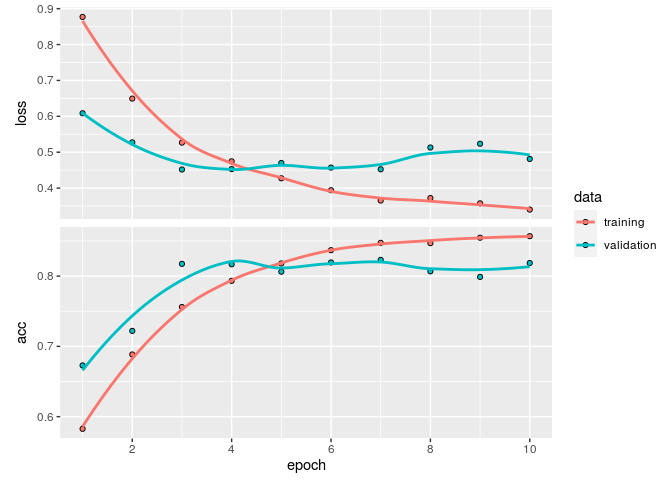
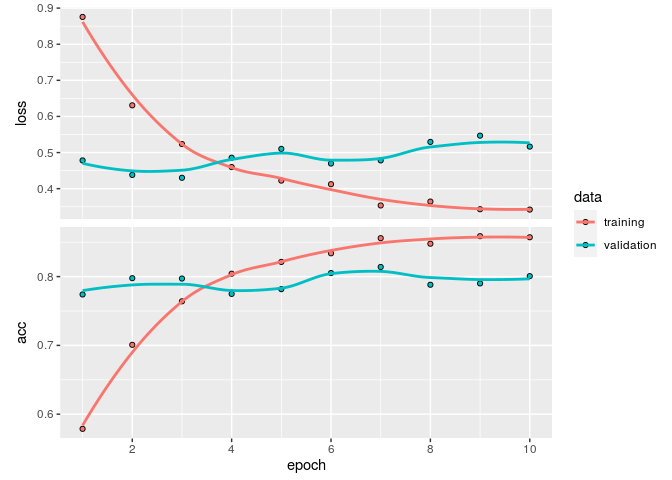
addition of cosine annealing to mimic cyclical learning rate of fast.ai

diff --git a/resnet50-lr-finder-and-cyclic-lr-with-r.md b/resnet50-lr-finder-and-cyclic-lr-with-r.md
@@ -287,8 +287,8 @@ str(batch)
 ```
 
     ## List of 2
-    ##  $ : num [1:32, 1:224, 1:224, 1:3] 66 124 75.6 192.4 135.8 ...
-    ##  $ : num [1:32, 1:4] 0 1 1 1 0 0 0 0 0 0 ...
+    ##  $ : num [1:32, 1:224, 1:224, 1:3] 76 52.8 110 135 48.1 ...
+    ##  $ : num [1:32, 1:4] 0 0 0 1 0 0 0 0 1 0 ...
 
 # Import pre-trained model
 
@@ -468,13 +468,13 @@ data <- data.frame("Learning_rate" = lr_hist, "Loss" = callback_log_acc_lr$loss)
 head(data)
 ```
 
-    ##   Learning_rate     Loss
-    ## 1  1.145048e-08 1.108392
-    ## 2  1.311134e-08 1.103797
-    ## 3  1.501311e-08 1.025971
-    ## 4  1.719072e-08 1.084623
-    ## 5  1.968419e-08 1.125008
-    ## 6  2.253934e-08 1.098663
+    ##   Learning_rate      Loss
+    ## 1  1.145048e-08 1.0334737
+    ## 2  1.311134e-08 1.2092899
+    ## 3  1.501311e-08 1.1567343
+    ## 4  1.719072e-08 0.9763259
+    ## 5  1.968419e-08 0.9965426
+    ## 6  2.253934e-08 1.0602639
 
 Learning rate vs loss
 :
@@ -581,8 +581,6 @@ Cyclic_LR <- function(iteration=1:32000, base_lr=1e-5, max_lr=1e-3, step_size=20
 }
 ```
 
-## Trying cosine annealing
-
 ``` r
 n=40
 nb_epochs=10
@@ -599,6 +597,42 @@ plot(l_rate, type="b", pch=16, xlab="iteration", cex=0.2, ylab="learning rate", 
 ```
 
 ![](resnet50-lr-finder-and-cyclic-lr-with-r_files/figure-gfm/unnamed-chunk-42-1.png)<!-- -->
+
+#### Reproducing cosine annealing
+
+``` r
+l_rate <- Cyclic_LR(iteration=1:n_iter, base_lr=1e-5, max_lr=1e-3, step_size=floor(n),
+                        mode='halfcosine', gamma=1, scale_fn=NULL, scale_mode='cycle')
+
+l_rate <- rep(l_rate[n:(n*2)], nb_epochs)
+```
+
+``` r
+plot(l_rate, type="b", pch=16, xlab="iteration", cex=0.2, ylab="learning rate", col="grey50")
+```
+
+![](resnet50-lr-finder-and-cyclic-lr-with-r_files/figure-gfm/unnamed-chunk-44-1.png)<!-- -->
+
+##### Combining the two
+
+``` r
+l_rate_cyclical <- Cyclic_LR(iteration=1:n, base_lr=1e-5, max_lr=1e-3, step_size=floor(n/2),
+                        mode='triangular', gamma=1, scale_fn=NULL, scale_mode='cycle')
+
+
+l_rate_cosine_annealing <- Cyclic_LR(iteration=1:n_iter, base_lr=1e-5, max_lr=1e-3, step_size=floor(n),
+                        mode='halfcosine', gamma=1, scale_fn=NULL, scale_mode='cycle')
+
+l_rate_cosine_annealing <- rep(l_rate_cosine_annealing[n:(n*2)])
+
+l_rate <- rep(c(l_rate_cyclical, l_rate_cosine_annealing), nb_epochs/2)
+```
+
+``` r
+plot(l_rate, type="b", pch=16, xlab="iteration", cex=0.2, ylab="learning rate", col="grey50")
+```
+
+![](resnet50-lr-finder-and-cyclic-lr-with-r_files/figure-gfm/unnamed-chunk-46-1.png)<!-- -->
 
 Clean model for training :
 
@@ -646,44 +680,6 @@ plot(history)
     ## `geom_smooth()` using formula 'y ~ x'
 
 ![](resnet50-lr-finder-and-cyclic-lr-with-r_files/figure-gfm/plot_perforance-1.png)<!-- -->
-
-## Trying cosine annealing
-
-``` r
-n=40
-nb_epochs=5
-n_iter<-n*nb_epochs
-```
-
-``` r
-l_rate <- Cyclic_LR(iteration=1:n_iter, base_lr=1e-5, max_lr=1e-3, step_size=floor(n),
-                        mode='halfcosine', gamma=1, scale_fn=NULL, scale_mode='cycle')
-
-l_rate <- rep(l_rate[n:(n*2)], nb_epochs)
-```
-
-``` r
-plot(l_rate, type="b", pch=16, xlab="iteration", cex=0.2, ylab="learning rate", col="grey50")
-```
-
-![](resnet50-lr-finder-and-cyclic-lr-with-r_files/figure-gfm/unnamed-chunk-49-1.png)<!-- -->
-
-``` r
-history <- model %>% fit_generator(
-    train_generator,
-    steps_per_epoch=n,
-    epochs = nb_epochs,
-    callbacks = callback_list, #callback to update cylic lr
-    validation_data = validation_generator,
-    validation_step=50
-)
-```
-
-``` r
-plot(history)
-```
-
-![](resnet50-lr-finder-and-cyclic-lr-with-r_files/figure-gfm/unnamed-chunk-51-1.png)<!-- -->
 
 Load best model :
 
